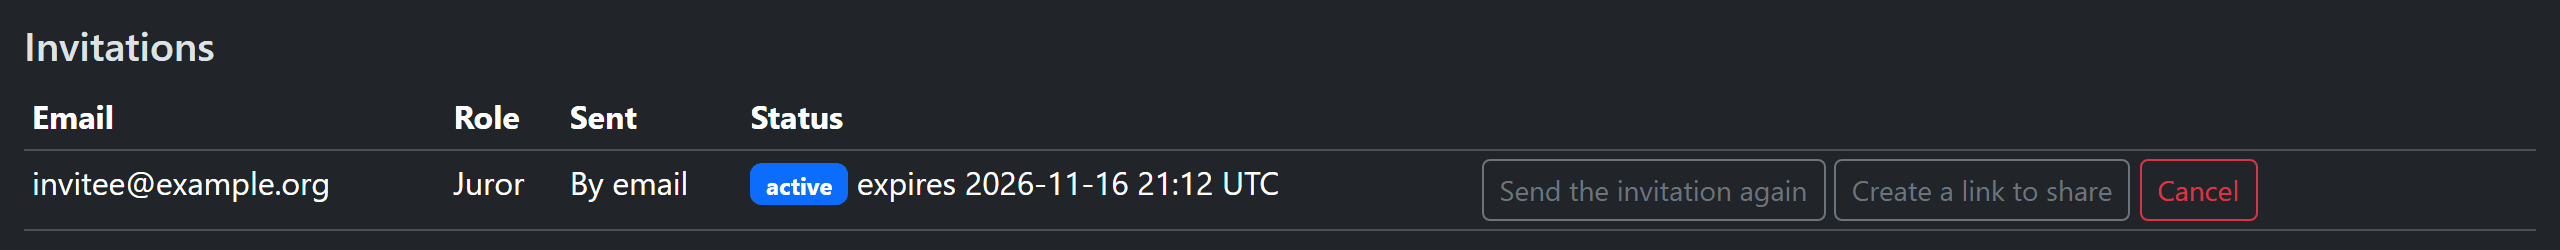
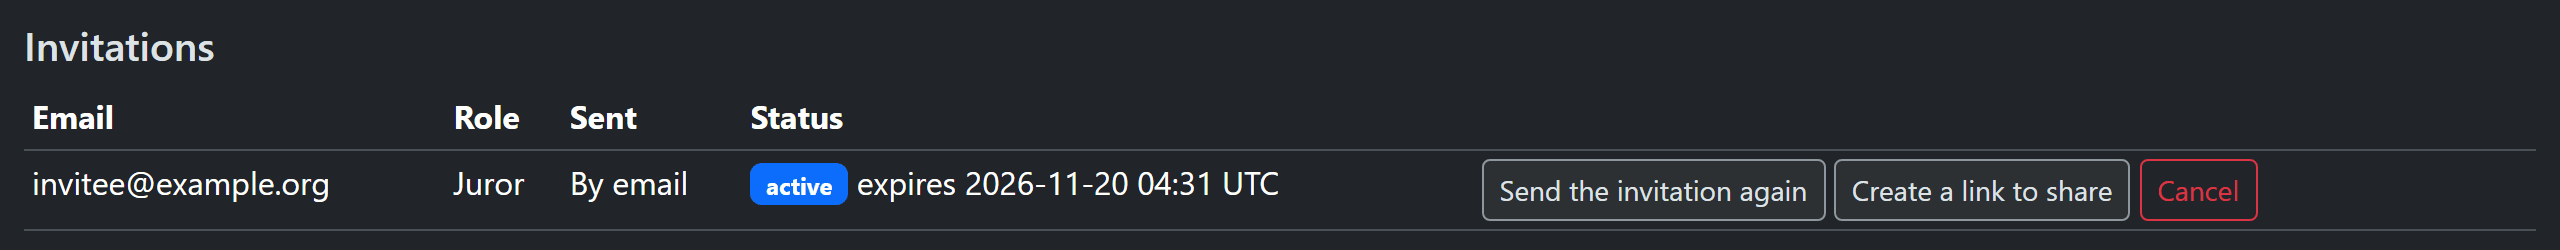
Regenerate the guides' screenshots; name the fixture's round "Yes/No Round"
- All 28 docs/user/images shots regenerated (dark theme, Chromium 156, Playwright 1.64.1,
  Windows 11) and palette-optimised: 25 changed (vote times in the large view, the
  organisers' compact results bar, brighter outline-secondary buttons, the new round name);
  the score-rule warning, comment box and set-password shots are unchanged.
- The Gatling/docs fixture's binary round is "Yes/No Round", as the UI calls the kind
  (was "Binary Round"); FixtureVersion fixture-v8 so the cached dump is rebuilt. The
  organizer browser spec follows.
- docs-screenshots spec: invitation mail is a choice now (unticked by default), so the spec
  ticks "Send an invitation email" when it adds the invitee, and sends it from the member's
  row when an earlier run added the address without one; otherwise the Invitations list is
  empty and the admin shots fail.
- Organizer guide: the results bar's icons below 1700 px. Images README: platform date and sizes.

diff --git a/browser-test/tests/organizer.spec.js b/browser-test/tests/organizer.spec.js
@@ -12,7 +12,7 @@ test.describe('an organizer', () => {
     await expect(page.getByRole('columnheader', { name: 'Selected' })).toBeVisible();
     await expect(page.getByRole('cell', { name: fixture.accounts.juror.login, exact: true })).toBeVisible();
     // the rounds' links: the current one marked
-    await expect(page.getByRole('link', { name: /Binary Round/ })).toHaveAttribute('aria-current', 'page');
+    await expect(page.getByRole('link', { name: /Yes\/No Round/ })).toHaveAttribute('aria-current', 'page');
   });
 
   test('opens the rated round\'s files by rate, of all the jurors', { tag: '@O-02' }, async ({ page, fixture }) => {
@@ -33,9 +33,9 @@ test.describe('an admin', () => {
   test('opens a round\'s form from the rounds list, with its jurors\' table', { tag: '@A-02' }, async ({ page, fixture }) => {
     await page.goto(`/admin/rounds?contestId=${fixture.contestId}`);
     await expect(page.getByRole('heading', { level: 1 })).toContainText('Contest');
-    await page.getByRole('row', { name: /Binary Round/ }).getByRole('link', { name: '1', exact: true }).click();
+    await page.getByRole('row', { name: /Yes\/No Round/ }).getByRole('link', { name: '1', exact: true }).click();
     await expect(page.getByRole('heading', { level: 1, name: 'Edit round' })).toBeVisible();
-    await expect(page.getByLabel('Round name (optional)')).toHaveValue('Binary Round');
+    await expect(page.getByLabel('Round name (optional)')).toHaveValue('Yes/No Round');
 
     // the jurors' panel loads its table when opened (round-form.js)
     const table = page.waitForResponse((r) => new URL(r.url()).pathname === `/roundstat/${fixture.roundBinaryId}/table`);
@@ -48,7 +48,7 @@ test.describe('an admin', () => {
     const form = `/admin/rounds/edit?id=${fixture.roundBinaryId}&contestId=${fixture.contestId}`;
     await page.goto(form);
     const name = page.getByLabel('Round name (optional)');
-    await expect(name).toHaveValue('Binary Round');
+    await expect(name).toHaveValue('Yes/No Round');
     await name.fill('Renamed and cancelled');
     const posts = [];
     page.on('request', (r) => { if (r.method() === 'POST') posts.push(r.url()); });
@@ -56,7 +56,7 @@ test.describe('an admin', () => {
     await expect(page).toHaveURL(/\/admin\/rounds/);
     expect(posts, 'Cancel saves nothing').toEqual([]);
     await page.goto(form);
-    await expect(page.getByLabel('Round name (optional)')).toHaveValue('Binary Round');
+    await expect(page.getByLabel('Round name (optional)')).toHaveValue('Yes/No Round');
   });
 
   test('opens the new round form, whose fields follow the choices', { tag: '@A-01' }, async ({ page, fixture }) => {

diff --git a/browser-test/tests/docs-screenshots.spec.js b/browser-test/tests/docs-screenshots.spec.js
@@ -266,8 +266,19 @@ test.describe('the guides\' screenshots', () => {
       await page.locator('#fullname').fill('Sample Invitee');
       await page.locator('#email').fill('invitee@example.org');
       await page.locator('#roles').selectOption({ label: 'Juror' });
+      // mailing is a choice, unticked by default: tick it, so that the invitations list has the
+      // invitation (the fixture's mailer only logs it)
+      await page.locator('#add-user-send-invitation').check();
       await page.locator('#add-user-button').click();
       await page.waitForLoadState('networkidle');
+    }
+    // an earlier run that added the address without an invitation: send it from the member's row
+    if (await page.locator('table.pending-invitations tr', { hasText: 'invitee@example.org' }).count() === 0) {
+      await page.getByRole('row', { name: /invitee@example\.org/ }).first()
+        .getByRole('button', { name: 'Send the invitation again' }).click();
+      await page.waitForLoadState('networkidle');
+      await page.goto(`/admin/users?contestId=${contest}`);
+      await expect(page.locator('table.pending-invitations tr', { hasText: 'invitee@example.org' })).toHaveCount(1);
     }
     // the top of the table (the fixture has 30 members)
     await top(page, path.join(OUT_DIR, 'admin-users.png'), await belowTableRow(page, 4));

diff --git a/docs/user/images/README.md b/docs/user/images/README.md
@@ -10,12 +10,12 @@ The fixture's files carry real Commons file names and authors, so the spec repla
 numbered examples before each shot, and the link to share shows a neutral host.
 
 **Platform of the current set:** Windows 11 Pro (10.0.26200), Playwright 1.64.1 with its bundled
-Chromium (156), the app's own font stack, 2026-11-10. Text rendering depends on the operating
+Chromium (156), the app's own font stack, 2026-11-13. Text rendering depends on the operating
 system, so regenerate all the images together on one platform and update this line.
 
-**Size:** 28 images, about 4.3 MB in all. The largest are the two galleries (about 680 and 770
+**Size:** 28 images, about 4.4 MB in all. The largest are the two galleries (about 640 and 610
 KB), the contest's files (about 650 KB) and the by-rate results (about 560 KB); the three large views are cropped to the controls
-column and the top of the photo (about 310 KB each), with the comment box in its own small shot;
+column and the top of the photo (about 320 to 390 KB each), with the comment box in its own small shot;
 the others stay small. The profile, user-edit, share-link and score-rule shots are cropped to
 their forms, below the navbar, and the root user-edit shot to its Root and Role fields. Photos make 2x PNGs large, so
 `browser-test/docs-optimize-png.py` reduces each image to a 256-colour palette after the spec

diff --git a/docs/user/organizer-guide.md b/docs/user/organizer-guide.md
@@ -100,7 +100,9 @@ Under the table:
 The bar at the top of a round's results has the menus that show other views of the same
 round: the round, the juror (a single juror's votes, or **All**), a vote filter and four views:
 the **Gallery**, **By rate**, **File list** and **CSV**. The views of **All** jurors take no
-votes.
+votes. On screens narrower than about 1700 pixels, this bar shows **Contest files** and
+**Statistics** as icons (photos and a bar chart), a single juror's order menu as a sort icon, and
+the region menu without the word "Region"; point at an icon to see its name.
 
 You can see a juror's votes only for a juror of that round. Choosing another person's page
 shows the tool's "not found" page.
